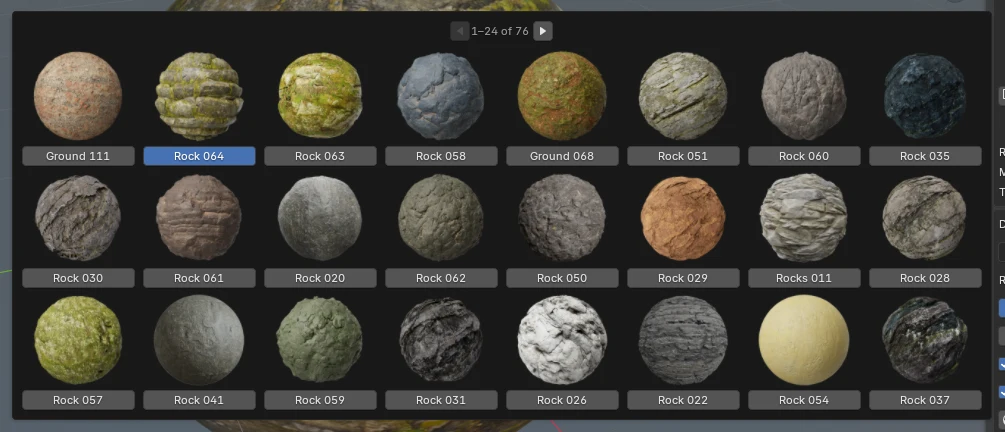
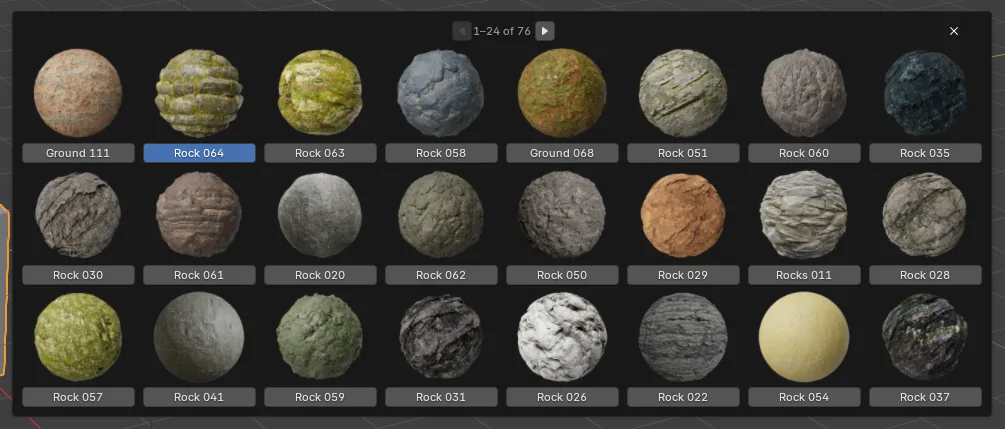
feat: add close button and open results popup beside sidebar (#4)
* feat: add close button and open results popup beside sidebar

- An X at the top right of the Browse Results popup closes it. It is a
  template_popup_confirm button: a plain operator button cannot close a
  keep_open popover. The new ambientcg.browse operator refreshes the popup
  right after opening it, which 4.2 and 4.5 need for the X to work.
- The popup opens beside the sidebar instead of over the AmbientCG panel.
  ambientcg.browse finds the sidebar under the mouse, picks the column count
  that fits on its roomier side and moves the cursor so that Blender places
  the popup there.
- New results.webp screenshot with the X; README and landing page mention it.

Tested with real mouse clicks on Blender 5.2 and 4.2, installed from a local
repository build, at 3440, 1400 and 1000 px wide windows.

* fix: address review comments on PR #4

Keep the results popup at 4 columns or more so its header fits the pager,
note how to open it from the Python API, and add an Unreleased changelog
section that mentions the cursor warp.

* chore: bump version to 1.1.0

---------

diff --git a/site/index.html b/site/index.html
@@ -231,13 +231,13 @@ footer p { margin: 0; }
         <ol class="steps">
           <li>In the 3D Viewport press <strong>N</strong> to open the sidebar and click the <strong>AmbientCG</strong> tab.</li>
           <li>Type what you are looking for (rock, wood, sky…) and press <strong>Enter</strong>. Switch between <strong>Material</strong> and <strong>HDRI</strong>, and change the sort order.</li>
-          <li>Click <strong>Browse Results</strong> for a window of thumbnails. The arrows turn the page; a click on a name picks that result.</li>
+          <li>Click <strong>Browse Results</strong> for a window of thumbnails. The arrows turn the page; a click on a name picks that result; the X at the top right closes the window.</li>
           <li>Choose the resolution, 1K to 16K, and JPG or PNG. The download size shows before you click.</li>
           <li><strong>Add Material</strong> downloads the maps once, builds the material (color, roughness, normal, height, ambient occlusion, metal, opacity, emission) and puts it on the selected objects, by UV map or by Box, Sphere or Tube projection.</li>
           <li><strong>Set World HDRI</strong> makes an HDRI the scene's world, with Strength and Rotation sliders. The world you had stays in the file.</li>
         </ol>
         <figure>
-          <img class="shot" src="assets/results.webp" width="1005" height="432" loading="lazy" alt="The Browse Results window: three rows of eight material preview spheres, each with its name on a button, Rock 064 highlighted, and page arrows above.">
+          <img class="shot" src="assets/results.webp" width="1005" height="429" loading="lazy" alt="The Browse Results window: three rows of eight material preview spheres, each with its name on a button, Rock 064 highlighted, page arrows above and a close button at the top right.">
           <figcaption>Browse Results: 24 thumbnails a page, straight from ambientCG.</figcaption>
         </figure>
       </div>

diff --git a/ambientcg_browser/ambientcg.py b/ambientcg_browser/ambientcg.py
@@ -28,6 +28,8 @@ too; refresh=True asks AmbientCG first.
 The operators do the same with the panel's settings:
 `bpy.ops.ambientcg.fetch('EXEC_DEFAULT', True, asset_id="Rock035", attribute="1K-JPG", kind='MATERIAL')`
 returns at once: it downloads in the background, then applies through the timer.
+The results popup opens with `bpy.ops.ambientcg.browse(columns=8)` (4 to 8). wm.call_panel on it would reuse the
+width it was last opened with, and before 5.2 leave an X that does not close it.
 """
 
 import json
@@ -48,6 +50,10 @@ MARK_VERSION = 1
 PREFIX = "AmbientCG "
 _TICK = 0.25
 _BROWSER_COLUMNS = 8
+# The narrowest popup checked by hand. Its header gives the pager a third of the width, 8 units at 4 columns, about
+# what "1201–1224 of 2345" and the two arrows take: narrower clips it. Where 4 do not fit, the popup overlaps
+# the sidebar.
+_BROWSER_MIN_COLUMNS = 4
 _DEFAULT_RESOLUTION = "2K"
 _DEFAULT_FORMAT = "JPG"
 _OFFLINE = "Allow Online Access in Preferences > System > Network"
@@ -444,6 +450,7 @@ _thumbs = None   # Task
 _download = None # {"task", "asset", "attribute", "kind", "scene", "objects", "opts", "root", "cancelled"}
 _status = ""
 _browser = None  # the Region of the results popup, which can be gone: see _refresh_browser
+_browser_columns = _BROWSER_COLUMNS  # the popup is narrowed to what fits beside the sidebar: see _browser_cursor
 
 
 def _find(asset_id):
@@ -483,6 +490,39 @@ def _refresh_browser():
         except TypeError:
             continue
     _browser = None
+
+
+def _browser_cursor(context, beside, mouse_y):
+    """Where to put the cursor so that the results popup opens beside the region `beside` (the sidebar) instead of
+    over it, and how many columns fit there. Blender places a wm.call_panel popup relative to the cursor: the
+    depressed button, here the picked tile, lands on it at 80% of its width, or the popup's centre when nothing is
+    depressed (ui_block_func_POPOVER). The offsets below were measured on 4.2 and 5.2 at scale 1 and hold in units;
+    the window clamp catches the rest. Returns (x, y, columns)."""
+    window = context.window
+    system = context.preferences.system
+    unit = round(18 * system.ui_scale) + 2 * system.pixel_size   # U.widget_unit
+    gap, shadow, tile = 0.5 * unit, 2.25 * unit, 6 * unit      # the popup region is the layout plus 2.25 units
+    room_left = beside.x - gap
+    room_right = window.width - (beside.x + beside.width) - gap
+    room = max(room_left, room_right)
+    columns = int(min(_BROWSER_COLUMNS, max(_BROWSER_MIN_COLUMNS, (room - shadow) // tile)))
+    layout_w = columns * tile
+    rows = -(-len(_results) // columns)          # never 0: ambientcg.browse polls for results
+    columns_used = -(-len(_results) // rows)     # grid_flow balances its rows: 11 tiles in 8 columns make 6, not 8 + 3
+    anchor_x, depth = 1.1 * unit + layout_w / 2, 1.55 * unit
+    index = next((i for i, found in enumerate(_results) if found["id"] == _picked), None)
+    if index is not None:
+        row, col = divmod(index, columns_used)
+        pitch = (layout_w + 0.3 * unit) / columns_used
+        anchor_x = 1.1 * unit + col * pitch + 0.8 * (pitch - 0.3 * unit)
+        depth = (7.8 + 6.1 * row + (1.1 if status_text() else 0)) * unit
+    if room_left >= room_right:
+        left = beside.x - gap - (layout_w + shadow)
+    else:
+        left = beside.x + beside.width + gap
+    x = left + anchor_x
+    y = mouse_y + 1.5 * unit - depth             # the pager level with the button that opened the popup
+    return int(min(max(x, 0), window.width - 1)), int(min(max(y, 0), window.height - 1)), columns
 
 
 def _redraw():
@@ -829,6 +869,60 @@ class AMBIENTCG_OT_pick(bpy.types.Operator):
         return {'FINISHED'}
 
 
+class AMBIENTCG_OT_browse(bpy.types.Operator):
+    """Open the results popup. wm.call_panel with keep_open draws the popover once before its region is shown, and a
+    block drawn then counts as a plain menu: template_popup_confirm attaches no close callback to the X. Blender 5.2
+    refreshes right after opening for that reason (UI_popover_panel_invoke, #151778); 4.2 and 4.5 do not, so do it
+    here."""
+    bl_idname = "ambientcg.browse"
+    bl_label = "Browse Results"
+    bl_description = "Show the results as a grid of thumbnails"
+    bl_options = {'INTERNAL'}
+
+    columns: IntProperty(name="Columns", default=_BROWSER_COLUMNS, min=_BROWSER_MIN_COLUMNS, max=_BROWSER_COLUMNS,
+                         options={'HIDDEN', 'SKIP_SAVE'})
+
+    @classmethod
+    def poll(cls, context):
+        return bool(_results)
+
+    def invoke(self, context, event):
+        # From the sidebar button the popup would cover the panel: narrow it to what fits beside the sidebar and
+        # move the cursor so that it opens there. The cursor stays: warping it back closes the popup in 4.2.
+        # context.region is not the sidebar here: a click on a button in an overlapping sidebar runs the operator
+        # with the 3D view's main region. Find the sidebar under the cursor instead.
+        area = context.area
+        sidebar = next((r for r in (area.regions if area is not None else ())
+                        if r.type == 'UI' and r.x <= event.mouse_x < r.x + r.width
+                        and r.y <= event.mouse_y < r.y + r.height), None)
+        if sidebar is not None:
+            x, y, self.columns = _browser_cursor(context, sidebar, event.mouse_y)
+            context.window.cursor_warp(x, y)
+        return self.execute(context)
+
+    def execute(self, context):
+        global _browser_columns
+        _browser_columns = self.columns
+        result = bpy.ops.wm.call_panel(name=AMBIENTCG_PT_browser.bl_idname, keep_open=True)
+        _refresh_browser()
+        return result
+
+
+class AMBIENTCG_OT_close(bpy.types.Operator):
+    """Run by the X in the results popup. The button is a template_popup_confirm: Blender closes the popup itself
+    when it is pressed. Here the region is only forgotten; a last redraw of the closing popup can note it again, and
+    _refresh_browser copes with a freed region anyway."""
+    bl_idname = "ambientcg.close"
+    bl_label = "Close Results"
+    bl_description = "Close the results"
+    bl_options = {'INTERNAL'}
+
+    def execute(self, context):
+        global _browser
+        _browser = None
+        return {'FINISHED'}
+
+
 # ---------------------------------------------------------------------------
 # UI
 # ---------------------------------------------------------------------------
@@ -848,8 +942,7 @@ def _draw_search(layout, s):
         return None
     found = _find(_picked) or _results[0]
     box.template_icon(icon_value=_icon_of(found["id"]), scale=7.0)
-    op = box.operator("wm.call_panel", text="Browse Results", icon='IMAGE_BACKGROUND')
-    op.name, op.keep_open = AMBIENTCG_PT_browser.bl_idname, True
+    box.operator(AMBIENTCG_OT_browse.bl_idname, icon='IMAGE_BACKGROUND')
     _draw_pages(box)
     col = box.column(align=True)
     col.label(text=found["name"])
@@ -934,12 +1027,27 @@ class AMBIENTCG_PT_browser(bpy.types.Panel):
     def draw(self, context):
         global _browser
         _browser = context.region_popup
-        layout = self.layout
-        _draw_pages(layout)
+        # bl_ui_units_x is fixed at registration; a column of fixed width narrows the popup instead, since Blender
+        # sizes the block to its buttons. Everything goes into it. A plain column would be stretched to the parent's
+        # width, a left-aligned row keeps it at its own.
+        row = self.layout.row()
+        row.alignment = 'LEFT'
+        layout = row.column()
+        layout.ui_units_x = _browser_columns * 6
+        split = layout.split(factor=1 / 3)   # thirds: the pager centred in the middle one, the X at the right edge
+        split.label(text="")
+        rest = split.split(factor=0.5)
+        _draw_pages(rest)
+        sub = rest.row()
+        sub.alignment = 'RIGHT'
+        sub.emboss = 'NONE'
+        # The X closes the popup: a template_popup_confirm button does, a plain operator button in a keep_open
+        # popover cannot. An empty text would leave the button out, so a space; cancel_text="" leaves out Cancel.
+        sub.template_popup_confirm(AMBIENTCG_OT_close.bl_idname, text=" ", icon='X', cancel_text="")
         status = status_text()
         if status:
             layout.label(text=status, icon='SORTTIME' if _search is not None else 'INFO')
-        grid = layout.grid_flow(row_major=True, columns=_BROWSER_COLUMNS, even_columns=True, even_rows=True)
+        grid = layout.grid_flow(row_major=True, columns=_browser_columns, even_columns=True, even_rows=True)
         for found in _results:
             cell = grid.column(align=True)
             cell.template_icon(icon_value=_icon_of(found["id"]), scale=5.0)
@@ -971,6 +1079,8 @@ _classes = (
     AMBIENTCG_OT_apply,
     AMBIENTCG_OT_cancel,
     AMBIENTCG_OT_pick,
+    AMBIENTCG_OT_browse,
+    AMBIENTCG_OT_close,
     AMBIENTCG_PT_browser,
     AMBIENTCG_PT_main,
 )

diff --git a/tests/smoke_register.py b/tests/smoke_register.py
@@ -20,7 +20,7 @@ argv = sys.argv[sys.argv.index("--") + 1:] if "--" in sys.argv else []
 ROOT = os.path.abspath(argv[0] if argv else os.path.join(os.path.dirname(__file__), ".."))
 # Pointers that must exist; every other ambientcg_* property is found and checked for removal anyway.
 SETTINGS = {"Scene.ambientcg_browser"}
-OPERATORS = ("search", "fetch", "apply", "cancel", "pick", "cache_folder", "cache_reset", "check_updates")
+OPERATORS = ("search", "fetch", "apply", "cancel", "pick", "browse", "close", "cache_folder", "cache_reset", "check_updates")
 failures = []
 
 

diff --git a/CHANGELOG.md b/CHANGELOG.md
@@ -6,6 +6,18 @@ The format is based on [Keep a Changelog](https://keepachangelog.com/en/1.1.0/),
 project adheres to [Semantic Versioning](https://semver.org/spec/v2.0.0.html). The version is
 `version` in `ambientcg_browser/blender_manifest.toml`; publishing a version requires its section here.
 
+## [1.1.0] - 2026-11-14
+
+### Added
+
+- An **X** at the top right of the results window closes it.
+
+### Changed
+
+- **Browse Results** opens the results window beside the sidebar instead of over the panel, with fewer columns
+  when the room there is narrow. To place it, the add-on moves the mouse pointer there; where the system does
+  not allow that, the window opens over the panel as before.
+
 ## [1.0.0] - 2026-11-14
 
 First release. Free software under the GNU General Public License, either version 3 of the License, or (at your

diff --git a/README.md b/README.md
@@ -9,7 +9,7 @@ tested on 4.2 LTS, 4.5 LTS and 5.2 LTS.
 ![The AmbientCG tab in Blender's sidebar, with the picked material on a sphere](site/assets/panel.webp)
 
 - **Search** by keyword, materials or HDRIs, sorted by popularity, date, name or downloads.
-- **Browse Results**: a window of thumbnails, 24 a page, with Prev and Next.
+- **Browse Results**: a window of thumbnails, 24 a page, with Prev and Next and an X to close it.
 - **Add Material**: downloads the maps once in the resolution and format you choose (1K to 16K, JPG or PNG; the
   size shows first), builds the material and puts it on the selected objects, by UV or by Box, Sphere or Tube
   projection.
